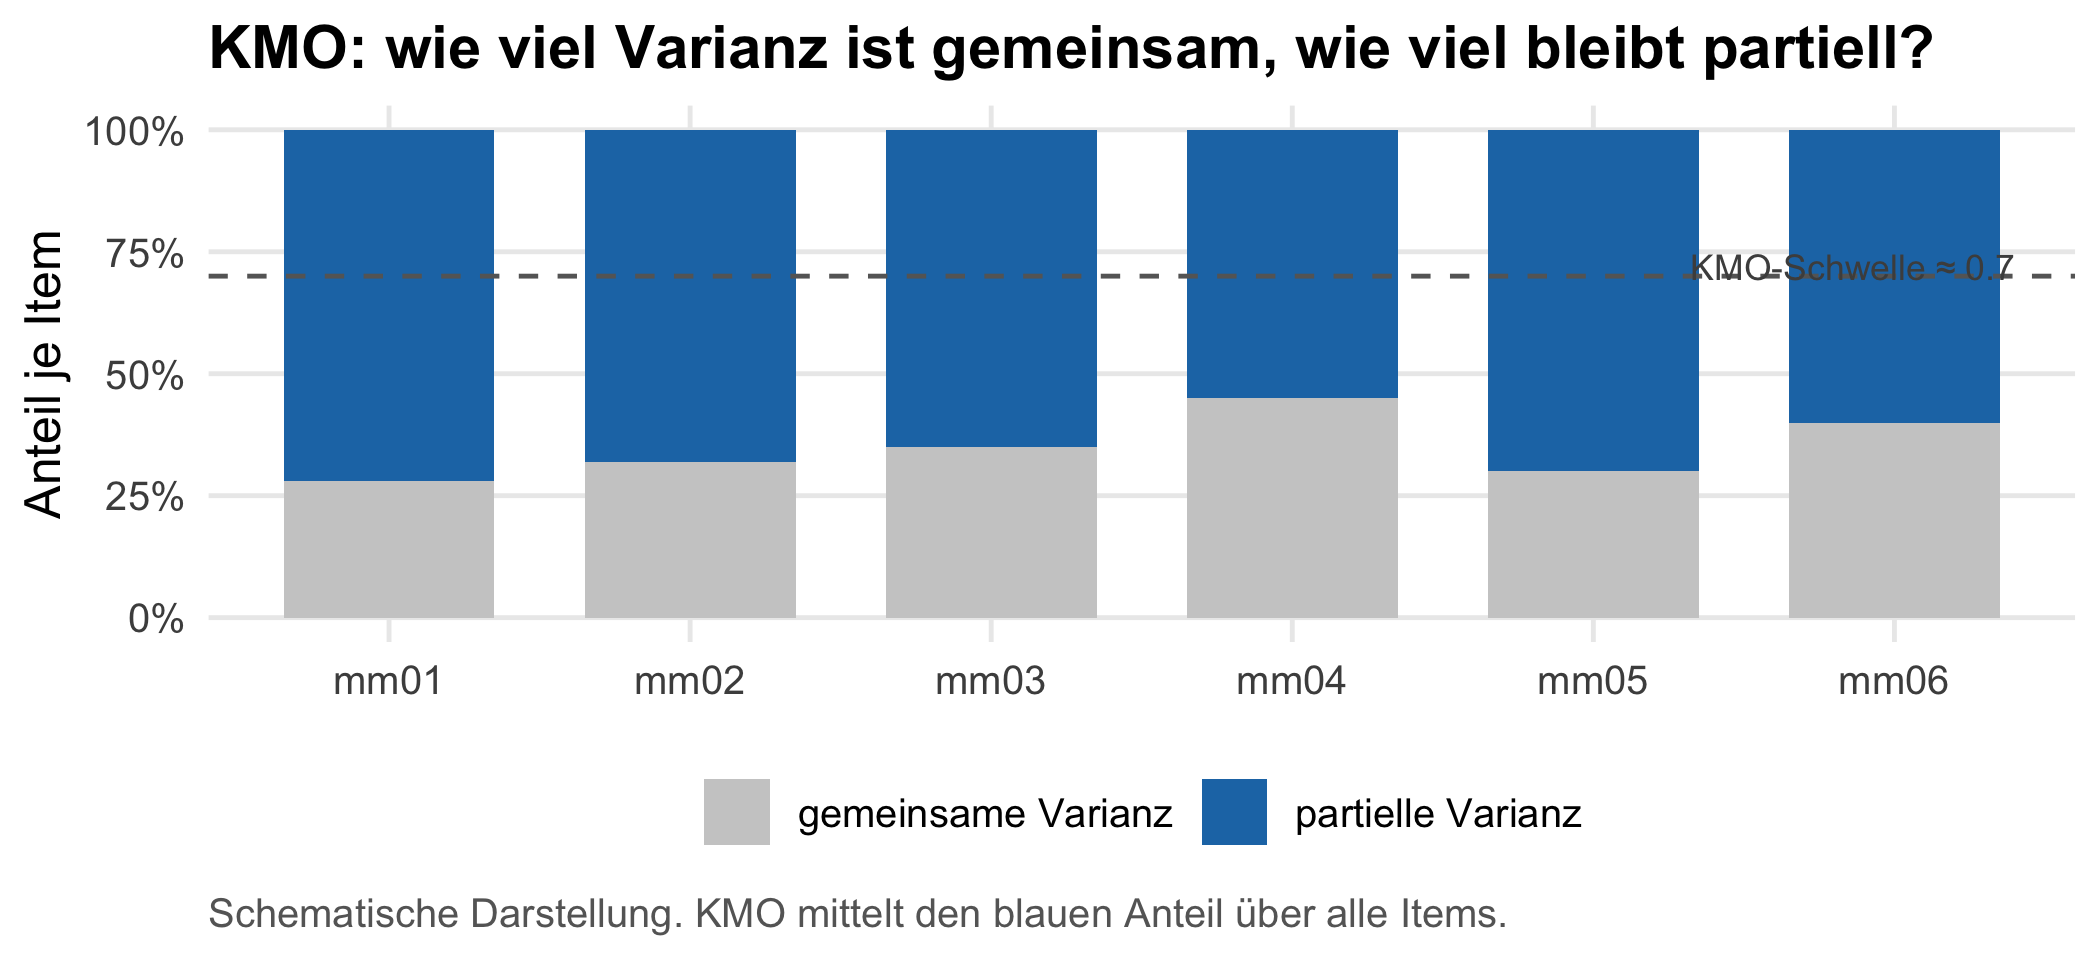
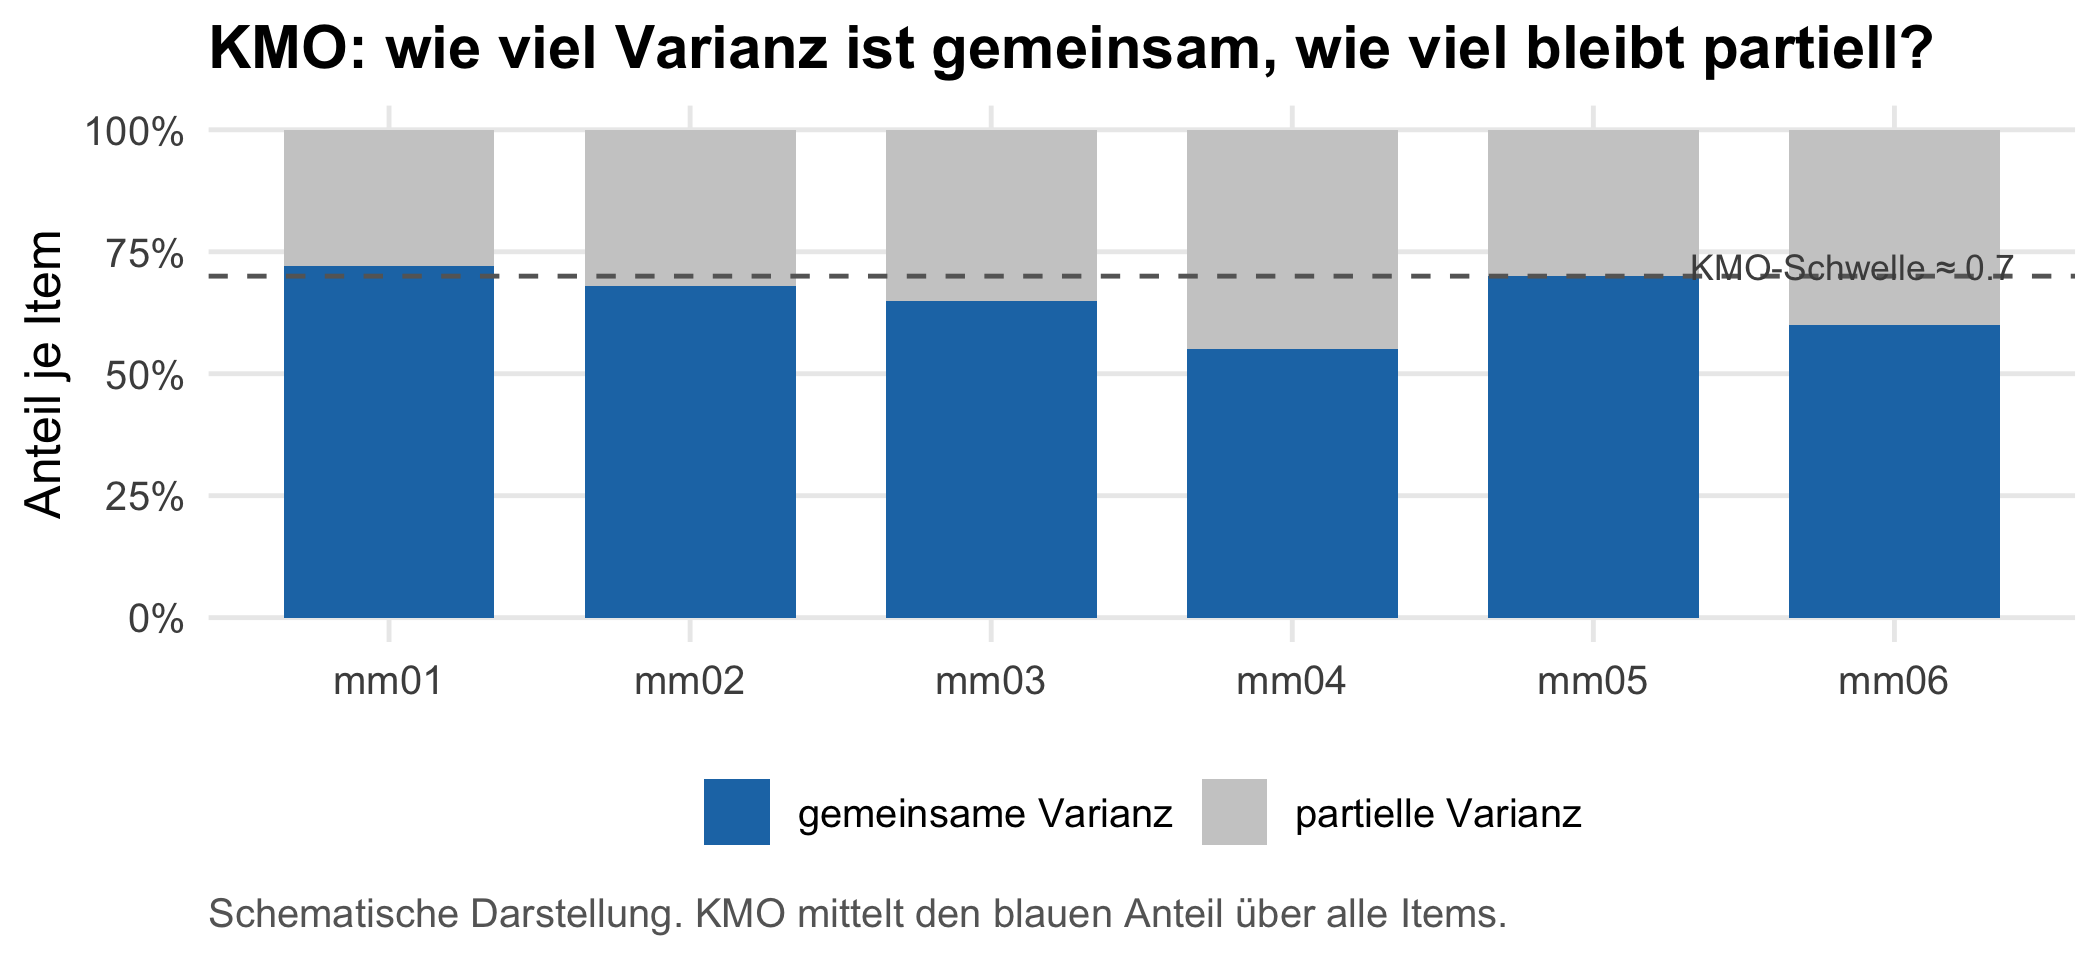
modernisierung-2026 Phase 6m: KMO-Plot Fix nachgezogen — Bars und Labels in Einklang
Phase 6l hatte zwei Stacking-Manipulationen kombiniert, die sich
gegenseitig aufgehoben haben:

  mutate(anteil = factor(anteil, levels = c("partiell", "gemeinsam"))) +
  position_stack(reverse = TRUE)

Netto-Effekt: Bars unveraendert (blau oben, grau unten wie vor 6l), ABER
labels = c("gemeinsame Varianz", "partielle Varianz") als positionale
Argumente wurden gegen die umgekehrte Factor-Order zugeordnet — Legende
zeigte daher gray = "gemeinsame Varianz", blue = "partielle Varianz".
Faktisch swapped Beschriftung gegen Farben.

Fix: Factor-Reorder entfernt. Nur position_stack(reverse = TRUE) noetig.
Default-Levels alphabetisch (gemeinsam, partiell) bleiben — labels
positional dazu konsistent. Bars: blau (gemeinsam) unten, grau (partiell)
oben — die gestrichelte 0.7-Schwelle markiert jetzt visuell die obere
Grenze des blauen Anteils, wie urspruenglich beabsichtigt.

diff --git a/docs/08-Latente-Strukturen.html b/docs/08-Latente-Strukturen.html
@@ -511,7 +511,6 @@ Wichtig
 <span>  <span class="fu">mutate</span><span class="op">(</span>partiell <span class="op">=</span> <span class="fl">1</span> <span class="op">-</span> <span class="va">gemeinsam</span><span class="op">)</span> <span class="op">|&gt;</span></span>
 <span>  <span class="fu">pivot_longer</span><span class="op">(</span><span class="fu"><a href="https://rdrr.io/r/base/c.html">c</a></span><span class="op">(</span><span class="va">gemeinsam</span>, <span class="va">partiell</span><span class="op">)</span>,</span>
 <span>               names_to <span class="op">=</span> <span class="st">"anteil"</span>, values_to <span class="op">=</span> <span class="st">"wert"</span><span class="op">)</span> <span class="op">|&gt;</span></span>
-<span>  <span class="fu">mutate</span><span class="op">(</span>anteil <span class="op">=</span> <span class="fu"><a href="https://rdrr.io/r/base/factor.html">factor</a></span><span class="op">(</span><span class="va">anteil</span>, levels <span class="op">=</span> <span class="fu"><a href="https://rdrr.io/r/base/c.html">c</a></span><span class="op">(</span><span class="st">"partiell"</span>, <span class="st">"gemeinsam"</span><span class="op">)</span><span class="op">)</span><span class="op">)</span> <span class="op">|&gt;</span></span>
 <span>  <span class="fu">ggplot</span><span class="op">(</span><span class="fu">aes</span><span class="op">(</span>x <span class="op">=</span> <span class="va">item</span>, y <span class="op">=</span> <span class="va">wert</span>, fill <span class="op">=</span> <span class="va">anteil</span><span class="op">)</span><span class="op">)</span> <span class="op">+</span></span>
 <span>  <span class="fu">geom_col</span><span class="op">(</span>width <span class="op">=</span> <span class="fl">0.7</span>, position <span class="op">=</span> <span class="fu">position_stack</span><span class="op">(</span>reverse <span class="op">=</span> <span class="cn">TRUE</span><span class="op">)</span><span class="op">)</span> <span class="op">+</span></span>
 <span>  <span class="fu">geom_hline</span><span class="op">(</span>yintercept <span class="op">=</span> <span class="fl">0.7</span>, linetype <span class="op">=</span> <span class="st">"dashed"</span>, color <span class="op">=</span> <span class="st">"grey40"</span><span class="op">)</span> <span class="op">+</span></span>